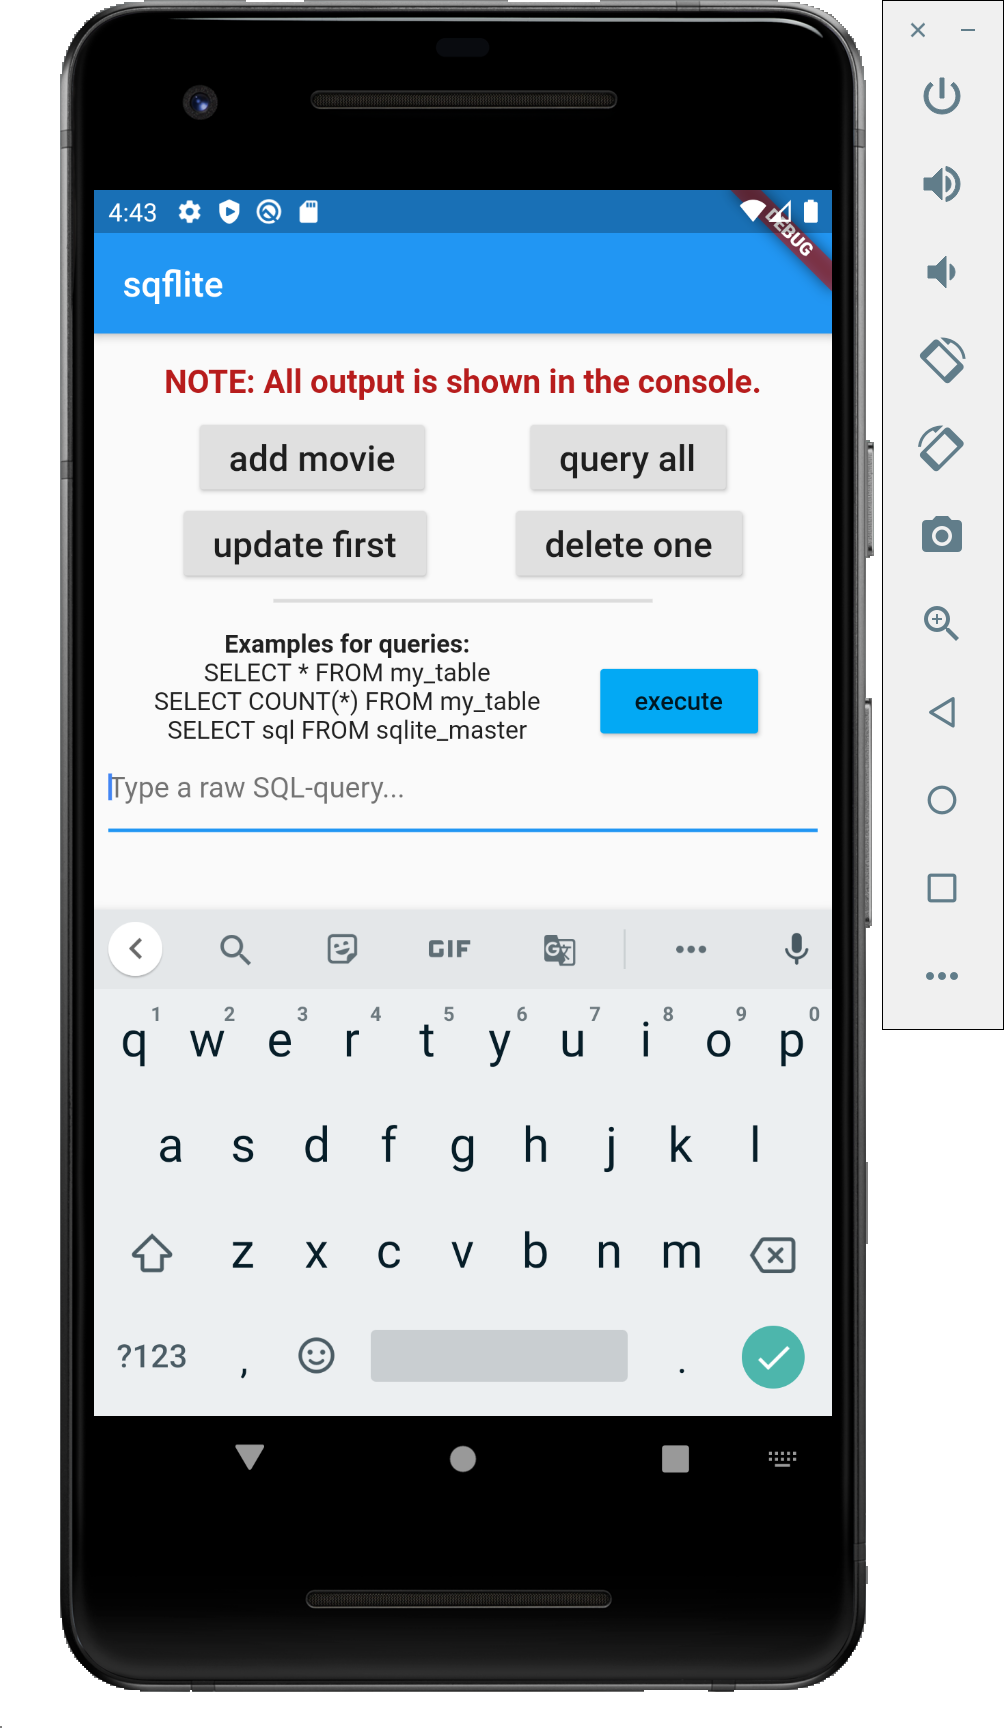
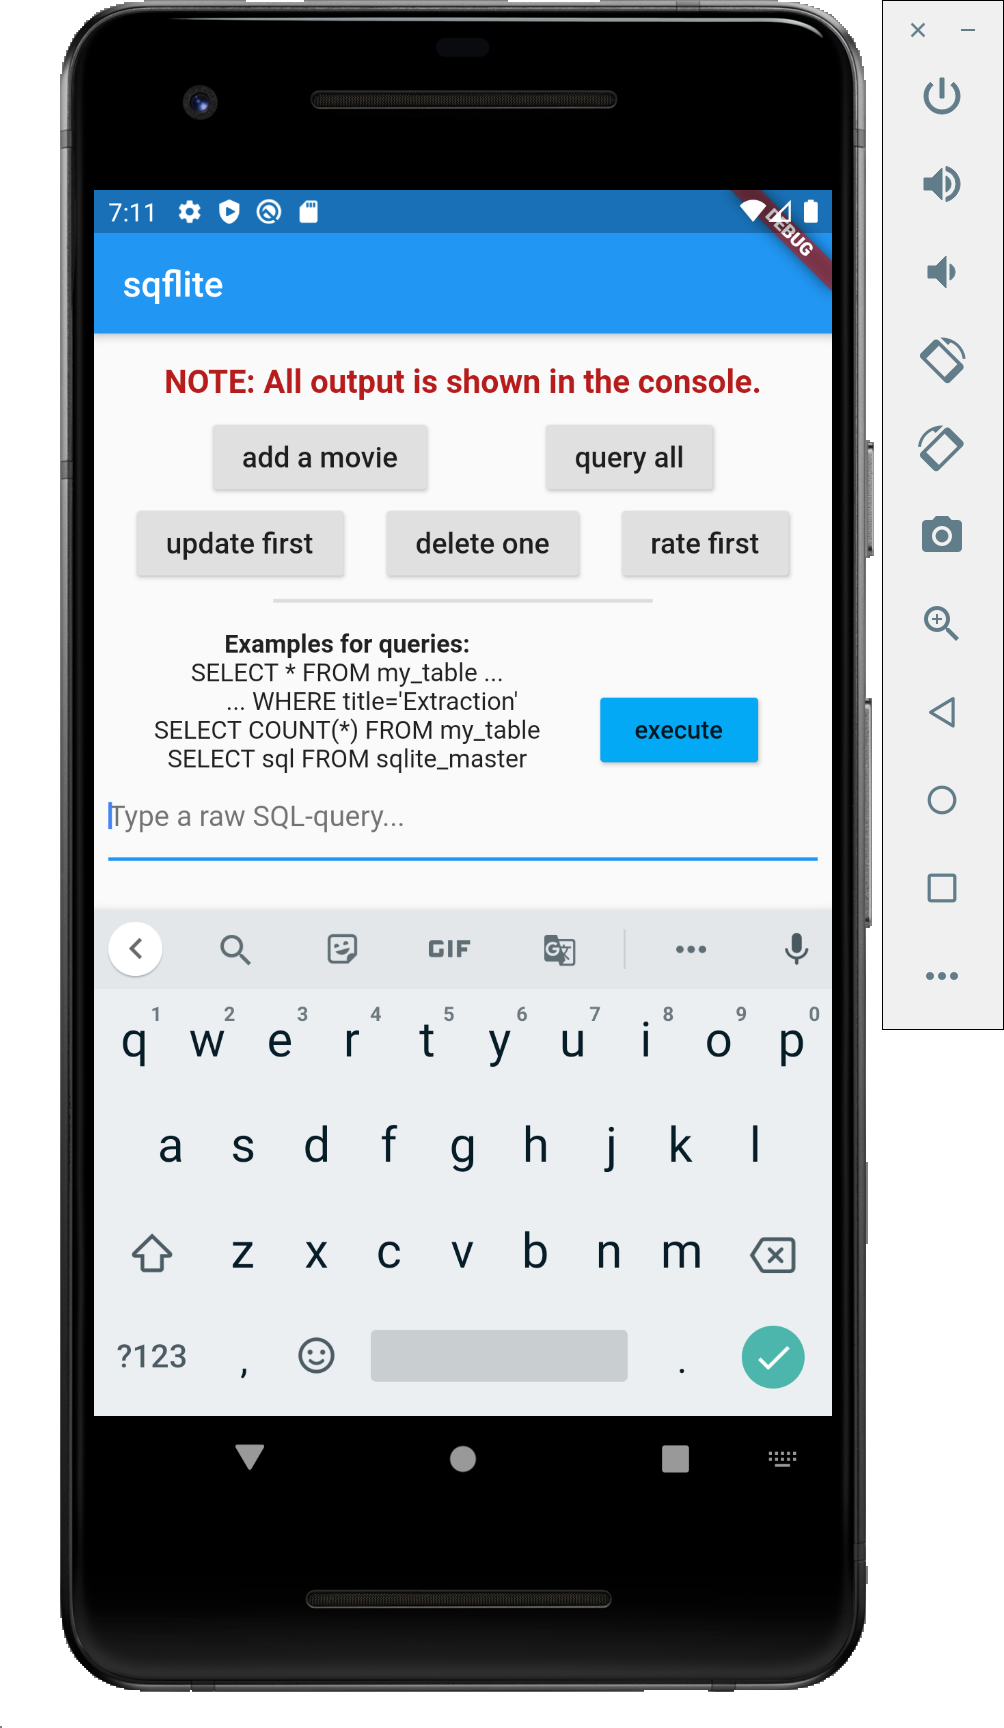
updated screenshot of the app

Changed region(s): [[0.0926, 0.375, 0.8028, 0.5], [0.1235, 0.25, 0.8028, 0.3438], [0.1235, 0.0938, 0.1544, 0.125]]

diff --git a/lib/raw_query.dart b/lib/raw_query.dart
@@ -35,7 +35,8 @@ class _RawQueryState extends State<RawQuery> {
                   ),
                   Text(
                     '''
-SELECT * FROM my_table
+SELECT * FROM my_table ...
+        ... WHERE title='Extraction'
 SELECT COUNT(*) FROM my_table
 SELECT sql FROM sqlite_master''',
                     textAlign: TextAlign.center,
